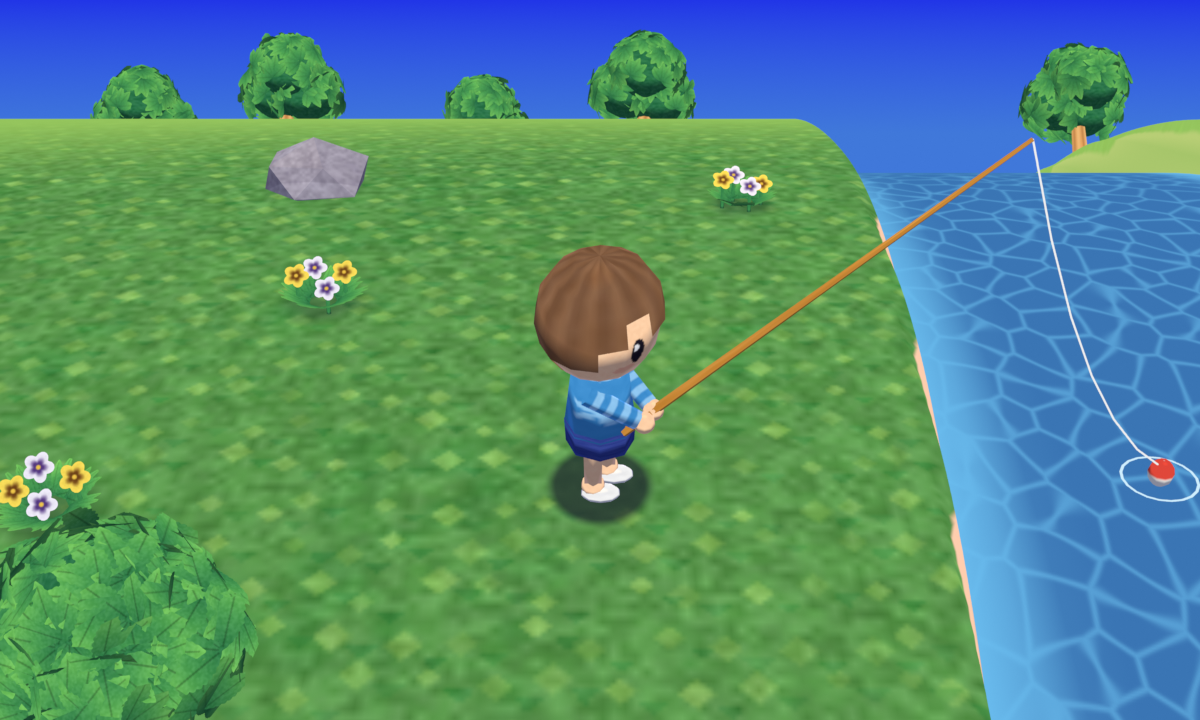
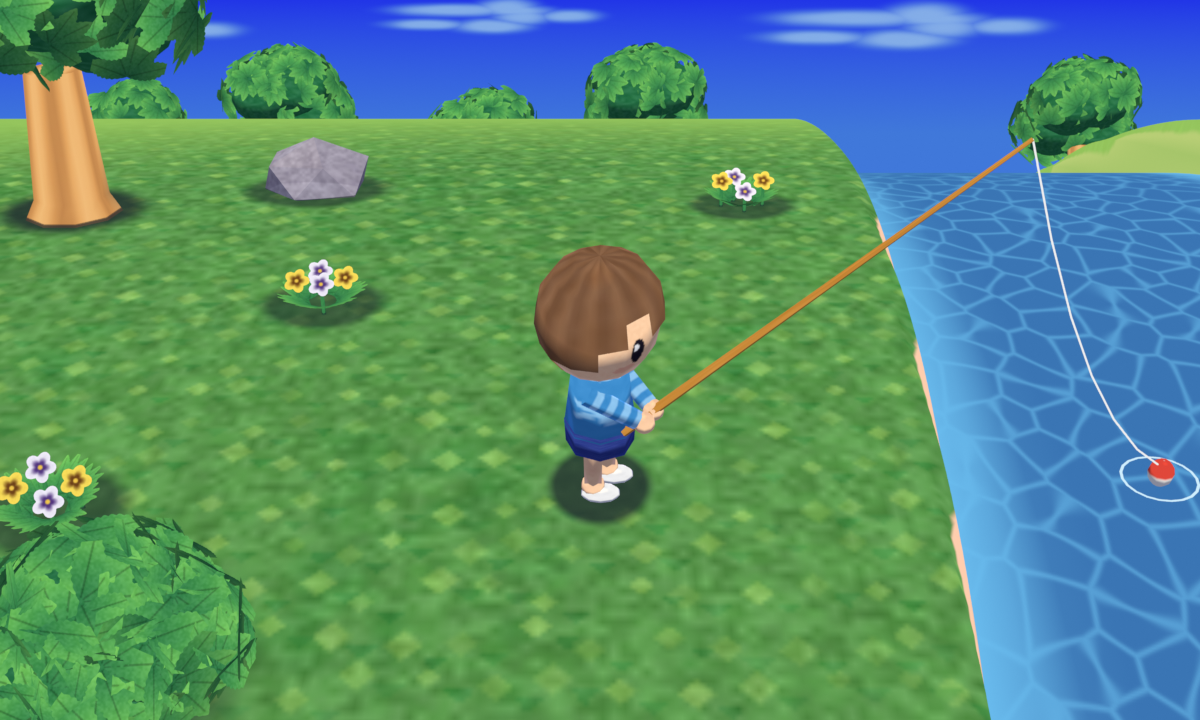
Town test scene: object shadows, clouds, NL tree proportions
Every tree, bush, flower clump and rock now has a soft shadow decal tuned to
the ratios measured on NL#946 (flower ground 0.68, canopy rim about 0.8);
trees get fat flared trunks and low wide canopies; thin cloud wisps from the
retail NL#939 colours sit in the sky strip. Blueprint sections 3, 4.1 and 15
record the measurements and settings.

Claude-Session: https://claude.ai/code/session_017uV2ZEHp81Umsc7vn6nowa

diff --git a/style_test_town/town_river_test.py b/style_test_town/town_river_test.py
@@ -59,6 +59,13 @@ BLOB_TINT_LIN = (0.018, 0.028, 0.032)           # E dark blue grey blend target 
 # Core alpha solved so G falls to about 0.46 of the retail grass #5A964C (lin G 0.305 to 0.060 with target 0.028):
 # a = (0.305 - 0.060) / (0.305 - 0.028) = 0.885. Blue is multiplied less, as measured (section 3).
 BLOB_CORE_ALPHA = 0.88
+# Object shadows, measured on NL#946 (E3 2010, the only frame with a near tree on open grass; M):
+# canopy shadow about 0.65 of the canopy width, centred under it, soft irregular edge, luminance 0.77 to 0.84 of
+# open grass near its rim and darker toward the trunk; ground under flower clumps 0.68; rock contact band dark.
+# Same blend target as the player blob. Core alpha for a displayed ratio k on #5A964C (lin G 0.305):
+# a = (0.305 - lin(150 k)) / (0.305 - 0.028): k 0.66 gives 0.65 (contact), k 0.75 gives 0.52 (canopy).
+CONTACT_ALPHA, CANOPY_ALPHA = 0.72, 0.68      # tuned on the render to hit the measured ratios
+CANOPY_SHADOW_FRAC = 0.65
 
 PAL = {
     "sky_top": "#2135E7", "sky_low": "#4078DA",                         # M retail NL#940, NL#939
@@ -521,7 +528,7 @@ def unlit(name, color):
     return m
 
 
-def blob_mat(name, core_alpha, tint_lin, inner=0.76):
+def blob_mat(name, core_alpha, tint_lin, inner=0.76, wobble=0.0):
     """Section 3: blend toward a dark blue grey (a multiply cannot raise blue on lime grass). Alpha profile:
     full core, falling to 0 at the outer radius, 50% at about 0.88 of it (w50 / extent = 0.38 / 0.43)."""
     m = bpy.data.materials.new(name)
@@ -536,9 +543,26 @@ def blob_mat(name, core_alpha, tint_lin, inner=0.76):
     ln = nt.nodes.new("ShaderNodeVectorMath")
     ln.operation = "LENGTH"
     link(nt, sub.outputs["Vector"], ln.inputs[0])
+    dist = ln.outputs["Value"]
+    if wobble:
+        # irregular, leafy outline (NL#946 canopy and flower shadows are soft but not round)
+        nz = nt.nodes.new("ShaderNodeTexNoise")
+        nz.inputs["Scale"].default_value = 4.0
+        nz.inputs["Detail"].default_value = 2.0
+        link(nt, tc.outputs["UV"], nz.inputs["Vector"])
+        ad = nt.nodes.new("ShaderNodeMath")
+        ad.operation = "MULTIPLY_ADD"
+        link(nt, nz.outputs["Fac"], ad.inputs[0])
+        ad.inputs[1].default_value = wobble
+        link(nt, dist, ad.inputs[2])
+        sb = nt.nodes.new("ShaderNodeMath")
+        sb.operation = "SUBTRACT"
+        link(nt, ad.outputs[0], sb.inputs[0])
+        sb.inputs[1].default_value = 0.5 * wobble
+        dist = sb.outputs[0]
     mr = nt.nodes.new("ShaderNodeMapRange")
     mr.interpolation_type = "SMOOTHSTEP"
-    link(nt, ln.outputs["Value"], mr.inputs["Value"])
+    link(nt, dist, mr.inputs["Value"])
     mr.inputs["From Min"].default_value, mr.inputs["From Max"].default_value = 0.5, 0.5 * inner
     mr.inputs["To Min"].default_value, mr.inputs["To Max"].default_value = 0.0, core_alpha
     tr = nt.nodes.new("ShaderNodeBsdfTransparent")
@@ -720,14 +744,15 @@ def leaf_cards(bm, uv, center, radius, n, size, rng, squash=0.9):
 def build_tree(col, M, x, y, height, rng):
     z0 = terrain_h(x, y)
     bm, uv = new_bm()
-    top = z0 + height * 0.55
-    bm_tube(bm, uv, [(x, y, z0 - 0.1), (x, y, z0 + 0.12), (x, y, top)], [0.17, 0.12, 0.08], 8, cap_end=True)
+    # NL trees (NL#946, 953, by eye): fat flared trunk, short, canopy starting low and wide
+    top = z0 + height * 0.42
+    bm_tube(bm, uv, [(x, y, z0 - 0.1), (x, y, z0 + 0.10), (x, y, top)], [0.30, 0.19, 0.14], 9, cap_end=True)
     mesh_object("TreeTrunk", bm, col, [M["bark"]])
     lobes = []
-    for k in range(3):
-        a = 2 * math.pi * k / 3 + rng.uniform(0, 1)
-        lobes.append(((x + 0.22 * math.cos(a), y + 0.22 * math.sin(a), top + 0.30 + 0.08 * k), 0.40))
-    lobes.append(((x, y, top + 0.66), 0.34))
+    for k in range(4):
+        a = 2 * math.pi * k / 4 + rng.uniform(0, 1)
+        lobes.append(((x + 0.30 * math.cos(a), y + 0.30 * math.sin(a), top + 0.32 + 0.06 * k), 0.46))
+    lobes.append(((x, y, top + 0.72), 0.40))
     bm, uv = new_bm()
     for c, r in lobes:
         bm_sphere(bm, uv, c, r * 0.82, scale=(1, 1, 0.9), segs=12, rings=7)        # dark core fills gaps
@@ -736,7 +761,10 @@ def build_tree(col, M, x, y, height, rng):
     for c, r in lobes:
         leaf_cards(bm, uv, c, r, 46, 0.36, rng)
     mesh_object("TreeLeaves", bm, col, [M["leaves"]])
-    blob(col, M["contact"], "TreeShadow", (x, y, z0 + 0.012), 0.55, 0.55)
+    half_w = 0.30 + 0.46                                # lobe offset plus lobe radius
+    rr = CANOPY_SHADOW_FRAC * half_w
+    blob(col, M["canopy"], "TreeShadow", (x, y, z0 + 0.012), rr, rr * 0.9)
+    blob(col, M["contact"], "TrunkContact", (x, y, z0 + 0.016), 0.40, 0.36)
 
 
 def build_flowers(col, M, x, y, rng):
@@ -776,7 +804,7 @@ def build_flowers(col, M, x, y, rng):
         for lp, q in zip(f.loops, ((0, 0), (1, 0), (1, 1), (0, 1))):
             lp[uv].uv = q
         mesh_object("FlowerHead", bm, col, [M["flower_a"] if k % 2 else M["flower_b"]])
-    blob(col, M["contact"], "FlowerShadow", (x, y, z0 + 0.01), 0.24, 0.24)
+    blob(col, M["contact"], "FlowerShadow", (x, y, z0 + 0.01), 0.32, 0.28)
 
 
 def build_rock(col, M, x, y, s):
@@ -792,7 +820,7 @@ def build_rock(col, M, x, y, s):
         for lp in f.loops:
             lp[uv].uv = ((lp.vert.co.x - x) * 2.0, (lp.vert.co.z - z0) * 2.0 + (lp.vert.co.y - y))
     mesh_object("Rock", bm, col, [M["rock"]], smooth=False)       # facets visible on props (section 2)
-    blob(col, M["contact"], "RockShadow", (x, y, z0 + 0.01), 1.3 * s, 1.1 * s)
+    blob(col, M["contact"], "RockShadow", (x, y - 0.02, z0 + 0.01), 1.75 * s, 1.45 * s)
 
 
 def build_bush(col, M, x, y, r, rng):
@@ -808,10 +836,13 @@ def build_bush(col, M, x, y, r, rng):
     for c, rr in lobes:
         leaf_cards(bm, uv, c, rr, 40, 0.30, rng)
     mesh_object("BushLeaves", bm, col, [M["leaves"]])
+    blob(col, M["canopy"], "BushShadow", (x, y, z0 + 0.012), 1.25 * r, 1.05 * r)
+    blob(col, M["contact"], "BushContact", (x, y, z0 + 0.016), 0.9 * r, 0.75 * r)
 
 
 # Horizon tree line beyond the bend tangent so trunk bases sink (section 9 rule 3); 5 trees (rule 5: 4 to 6).
 TREES = [(-3.6, 11.5, 2.0), (-1.4, 12.6, 2.1), (0.5, 11.4, 1.9), (5.6, 11.8, 2.0), (-5.6, 12.4, 2.1)]
+NEAR_TREES = [(-2.75, 2.5, 1.8)]   # mid ground tree: its canopy shadow sits on visible ground
 FLOWERS = [(-1.25, 1.35), (-2.0, -0.15), (0.75, 2.6)]   # rule 5: 2 to 5 clumps, 0.4 to 0.5 P wide
 
 PLAYER = Vector((0.0, 0.0, 0.0))
@@ -944,6 +975,69 @@ def build_sky():
     link(nt, bg.outputs[0], out.inputs["Surface"])
 
 
+def tex_cloud():
+    """Thin soft wisps (retail NL#939: low contrast streaks, core #5790D9, brightest #6FA2E1, against #3044DF)."""
+    w, h = 256, 64
+    yy, xx = np.mgrid[0:h, 0:w]
+    u, v = xx / (w - 1), yy / (h - 1)
+    a = np.zeros((h, w))
+    for k in range(7):
+        cx, cy = RNG.uniform(0.15, 0.85), RNG.uniform(0.35, 0.65)
+        sx, sy = RNG.uniform(0.12, 0.28), RNG.uniform(0.08, 0.16)
+        a = np.maximum(a, np.exp(-(((u - cx) / sx) ** 2 + ((v - cy) / sy) ** 2)))
+    a = a * (0.75 + 0.25 * fbm(w, h, 8, 2, RNG))
+    a = smoothstep(0.15, 0.85, a) * 0.9
+    col = ramp(a, ["#5790D9", "#6FA2E1", "#8FB8EA"])
+    return make_image("T_Cloud", col, a)
+
+
+def cloud_mat(img):
+    m = bpy.data.materials.new("M_Cloud")
+    nt = m.node_tree
+    nt.nodes.clear()
+    out = nt.nodes.new("ShaderNodeOutputMaterial")
+    t = nt.nodes.new("ShaderNodeTexImage")
+    t.image, t.interpolation, t.extension = img, "Linear", "CLIP"
+    em = nt.nodes.new("ShaderNodeEmission")
+    link(nt, t.outputs["Color"], em.inputs["Color"])
+    tr = nt.nodes.new("ShaderNodeBsdfTransparent")
+    mx = nt.nodes.new("ShaderNodeMixShader")
+    link(nt, t.outputs["Alpha"], mx.inputs[0])
+    link(nt, tr.outputs[0], mx.inputs[1])
+    link(nt, em.outputs[0], mx.inputs[2])
+    link(nt, mx.outputs[0], out.inputs["Surface"])
+    m.surface_render_method = "BLENDED"
+    return m
+
+
+# screen x, screen y (from the bottom), width as a share of the frame: inside the thin sky strip, between crowns
+CLOUDS = [(0.08, 0.955, 0.30), (0.40, 0.975, 0.26), (0.74, 0.96, 0.34)]
+
+
+def build_clouds(col, M, cam, dist=80.0):
+    """Cloud cards along camera rays far beyond the bent ground, so they only show over the sky (not bent)."""
+    sc = bpy.context.scene
+    bpy.context.view_layer.update()
+    mw = cam.matrix_world
+    tr, br, bl, tl = [mw @ v for v in cam.data.view_frame(scene=sc)]
+    org = mw.translation
+    for i, (sx, sy, wf) in enumerate(CLOUDS):
+        d = (bl.lerp(br, sx).lerp(tl.lerp(tr, sx), sy) - org).normalized()
+        c = org + d * dist
+        width = (tr - tl).length * dist / (tl - org).length * wf
+        right = (tr - tl).normalized()
+        up = right.cross(d).normalized()
+        if up.z < 0:
+            up = -up
+        hw, hh = width / 2, width * 0.25 / 2
+        bm, uv = new_bm()
+        vs = [bm.verts.new(c + right * a * hw + up * b * hh) for a, b in ((-1, -1), (1, -1), (1, 1), (-1, 1))]
+        f = bm.faces.new(vs)
+        for lp, q in zip(f.loops, ((0, 0), (1, 0), (1, 1), (0, 1))):
+            lp[uv].uv = q
+        mesh_object(f"Cloud{i}", bm, col, [M["cloud"]], smooth=False)
+
+
 def build_camera(col):
     cd = bpy.data.cameras.new("Cam")
     cd.lens, cd.sensor_height, cd.sensor_fit = FOCAL, SENSOR_H, "VERTICAL"
@@ -964,7 +1058,7 @@ def build(native=False):
     rng = np.random.default_rng(3)
     T = {"grass": tex_grass(), "wall": tex_wall(), "caustic": tex_caustic(), "foliage": tex_foliage(),
          "bark": tex_bark(), "face": tex_face(), "hair": tex_hair(), "shirt": tex_shirt(), "bobber": tex_bobber(),
-         "rock": tex_rock(), "leaves": tex_leaves(),
+         "rock": tex_rock(), "leaves": tex_leaves(), "cloud": tex_cloud(),
          "flower_a": tex_flower("#F4F0FF", "#5B3C8C"), "flower_b": tex_flower("#FFE15A", "#7A4A1E"),
          "skin": tex_flat("T_Skin", [PAL["skin_shade"], PAL["skin"], PAL["skin"]], 0.02, 2),
          "shorts": tex_flat("T_Shorts", ["#26347A", PAL["shorts"], "#3B4C9E"]),
@@ -993,7 +1087,9 @@ def build(native=False):
         "bobber": mat("M_Bobber", image=T["bobber"]),
         "foam": unlit("M_Foam", "#CFEFFF"),
         "blob": blob_mat("M_Blob", BLOB_CORE_ALPHA, BLOB_TINT_LIN),
-        "contact": blob_mat("M_Contact", contact_alpha * 1.6, BLOB_TINT_LIN, inner=0.35),
+        "contact": blob_mat("M_Contact", CONTACT_ALPHA, BLOB_TINT_LIN, inner=0.70, wobble=0.10),
+        "canopy": blob_mat("M_CanopyShadow", CANOPY_ALPHA, BLOB_TINT_LIN, inner=0.55, wobble=0.16),
+        "cloud": cloud_mat(T["cloud"]),
     }
     world = bpy.data.collections.new("World")
     sc.collection.children.link(world)
@@ -1001,7 +1097,7 @@ def build(native=False):
     build_terrain(world, M)
     build_water(world, M)
     # horizon tree line (section 9 rule 3) and a few nearer trees on both sides of the river (4 to 6 trees)
-    for x, y, hgt in TREES:
+    for x, y, hgt in TREES + NEAR_TREES:
         build_tree(world, M, x, y, hgt, rng)
     for x, y in FLOWERS:
         build_flowers(world, M, x, y, rng)
@@ -1018,6 +1114,7 @@ def build(native=False):
 
     rx_, ry_ = NATIVE if native else RES
     sc.render.resolution_x, sc.render.resolution_y, sc.render.resolution_percentage = rx_, ry_, 100
+    build_clouds(world, M, cam)
     sc.render.engine = "BLENDER_EEVEE"
     ee = sc.eevee
     if native:
@@ -1059,7 +1156,7 @@ def check(info):
     b = world_to_camera_view(sc, cam, bend_point(PLAYER + Vector((0, 0, 1.0))))
     print(f"player share {b.y - a.y:.3f} (target {PLAYER_SHARE}), feet row {1 - a.y:.3f} (target {FEET_ROW})")
     for x, y, hgt in TREES:
-        top = bend_point(Vector((x, y, terrain_h(x, y) + hgt * 0.55 + 0.98)))
+        top = bend_point(Vector((x, y, terrain_h(x, y) + hgt * 0.42 + 1.12)))
         base = bend_point(Vector((x, y, terrain_h(x, y))))
         vt, vb = world_to_camera_view(sc, cam, top), world_to_camera_view(sc, cam, base)
         print(f"  tree ({x}, {y}): crown top row {1 - vt.y:.3f}, base row {1 - vb.y:.3f}, column {vt.x:.3f}")
@@ -1081,7 +1178,7 @@ def qa(png, info):
     nwhite = float(((v > 0.92) & (s < 0.12)).mean())
     print(f"QA envelope: neon {neon:.3%}, near black {nblack:.3%}, near white {nwhite:.3%} (each under 2%)")
     # horizon: per column, last sky row from the top (sky = blue dominant and dark red channel)
-    sky = (px[..., 2] > 0.6) & (px[..., 0] < 0.45) & (px[..., 2] > px[..., 1] + 0.1)
+    sky = (px[..., 2] > 0.6) & (px[..., 2] > px[..., 0] + 0.2) & (px[..., 2] > px[..., 1] + 0.1)   # sky or cloud
     rows = []
     for x in range(int(w * 0.40), int(w * 0.60)):
         col = sky[:, x]
@@ -1099,6 +1196,16 @@ def qa(png, info):
         x, y = int(p.x * w), int((1 - p.y) * h)
         return px[max(0, y - 1):y + 2, max(0, x - 1):x + 2].reshape(-1, 3).mean(0)
     cf, cg = sample(pf), sample(pg)
+    # object shadows (section 3): flower clump ground and near tree canopy shadow vs open grass beside them
+    L = lambda c: 0.2126 * c[0] + 0.7152 * c[1] + 0.0722 * c[2]
+    for name, at_, ref, target in (
+            ("flower clump ground", (FLOWERS[0][0] + 0.12, FLOWERS[0][1] - 0.14),
+             (FLOWERS[0][0] + 0.12, FLOWERS[0][1] - 0.75), "0.68"),
+            ("tree canopy shadow rim", (NEAR_TREES[0][0] + 0.05, NEAR_TREES[0][1] - 0.37),
+             (NEAR_TREES[0][0] + 1.25, NEAR_TREES[0][1] - 0.37), "0.77 to 0.84 near the rim, darker inside")):
+        ps = world_to_camera_view(sc, cam, bend_point(Vector((at_[0], at_[1], 0.0))))
+        pr = world_to_camera_view(sc, cam, bend_point(Vector((ref[0], ref[1], 0.0))))
+        print(f"QA {name}: luminance ratio {L(sample(ps)) / max(L(sample(pr)), 1e-6):.2f} (NL#946 {target})")
     ratio = cf / np.maximum(cg, 1e-6)
     print(f"QA blob: shadow sRGB {tuple(int(c * 255) for c in cf)} vs grass {tuple(int(c * 255) for c in cg)}; "
           f"R, G ratios {ratio[0]:.2f}, {ratio[1]:.2f} (target about 0.45), B ratio {ratio[2]:.2f} "

diff --git a/style_blueprint/BLUEPRINT.md b/style_blueprint/BLUEPRINT.md
@@ -119,7 +119,7 @@ the feet with no offset (A, vA, H). CF#882 balloon shadow straight down (by eye)
 | width at 50% / full extent, in P | 0.38 P / 0.43 P (A 0.30/0.38 REVISED) | 50% width about 0.40 P (40 to 46 px vs about 110 px players); 10% extent 0.6 to 0.7 P |
 | profile | quick drop to about 0.7 over 3 px, then a gentle cone to the core; 10 to 90% edge about 10 px (about 0.09 P) | soft plateau plus long ramps; 10 to 90% edge about 22 px (0.2 P); not a 6 px cone |
 | on screen aspect | 1.3 to 1.4 : 1 (A's 2:1 REVISED) | similar (by eye) |
-| trees and props | NL#946 soft dark patch under trunk base, ratio about 0.7, irregular; NL#951 rock contact band (by eye) | cannot confirm |
+| trees and props | EVERY grounded object gets one (section 15): canopy shadow about 0.65 of the canopy width, centred under the canopy (no sun offset), soft irregular edge, luminance 0.77 to 0.84 of open grass near the rim and darker toward the trunk (NL#946); ground under flower clumps 0.68 (NL#946); rock contact band dark, extending past the rock (NL#946, 951). Same dark blue grey blend as the player blob (R and G fall more than B). M (one E3 2010 frame for the numbers, by eye on NL#951, 953) | cannot confirm |
 
 Confidence: NL H (four retail frames); CF M (press plus one in game frame by eye).
 
@@ -150,7 +150,7 @@ Audit [Au] (`audit/nl_blob2.py`: horizontal profile at the sole row, normalised 
 | CF city | pale horizon #7B94BC | | vC (CF#877). M |
 | NL E3 2010 press | bright cyan #45C5FF (top #3BBBFF) | #50D0FF to #58D4F8 | vC, A, vA (NL#946, 947, 949, 951, 953); [Au] rows 0 to 40 (body plus band) #48CCF8 to #4DCDFF: CONFIRMED. H for that build |
 | NL E3 2011 press | saturated blue to violet #213EED (NL#963), #3356F1 (957), #6378EB (956), #6D4FFA (955), #7942FE (964, possibly evening) | | vC. H for that build |
-| NL retail / near retail | deep blue #2135E7 (h 234, S 0.86, V 0.91) on retail NL#940; #242CE6 on NL#939 (Nintendo Direct 2012) | lower sky #4078DA to #6894D9 near a cloud (NL#939) | [S] `synth/sky_retail.py`, vC; [Au] NL#940 #2139E8, NL#939 #2323EF (strict blue mask): CONFIRMED within 9 levels. M (two small frames). Use the deep blue for an NL retail look; cyan only for an "early NL" look |
+| NL retail / near retail | deep blue #2135E7 (h 234, S 0.86, V 0.91) on retail NL#940; #242CE6 on NL#939 (Nintendo Direct 2012); clouds (NL#939): thin soft low contrast wisps, core #5790D9, brightest #6FA2E1, against #3044DF, not white puffs (white puffy clouds are key art only). L (one 200x140 frame) | lower sky #4078DA to #6894D9 near a cloud (NL#939) | [S] `synth/sky_retail.py`, vC; [Au] NL#940 #2139E8, NL#939 #2323EF (strict blue mask): CONFIRMED within 9 levels. M (two small frames). Use the deep blue for an NL retail look; cyan only for an "early NL" look |
 | NL snow night, evening | snow #4E56B1 under night light (NL#961); evening sky #7942FE (NL#964) | | vA. M |
 
 ### 4.2 Ground and grass
@@ -675,3 +675,15 @@ New evidence and corrections found while building `style_test_town/town_river_te
   mean saturation 0.555; mean value 0.654. Flat colour materials and smooth sphere foliage scored 0.37 grain; painted
   textures on every material, leaf clump cards and printed grass raised it to 1.63 with saturation 0.561 and value
   0.669 inside the capture range. Every material needs a painted texture; no flat fills.
+* Object shadows (second test pass): without them shrubs, flowers, trees and rocks read as pasted on. Measured on
+  NL#946 against open grass #12804E: under the canopy #1C6840 to #185F3E (luminance 0.77 to 0.84; R rises because the
+  grass R is near zero, G and B fall to 0.74 to 0.82), under a flower clump #185436 (0.68). Canopy shadow width about
+  0.65 of the canopy width, centred, irregular soft edge (by eye). Implementation that reproduced the targets on the
+  render (`town_river_test.py --render` QA): decal discs with the player blob blend colour, core alpha 0.72 (contact:
+  flowers 0.32 P radius, rock 1.75 x its radius, trunk base 0.40 P) and 0.68 (canopy), noise wobble 0.10 to 0.16 on
+  the radius; measured on the render: flower ground 0.68, canopy rim 0.85.
+* Trees (by eye on NL#946, 953): fat flared trunk (base radius about 0.30 P, top 0.14 P), short (canopy starts at
+  about 0.42 of the tree height), wide canopy of leaf clump cards; near trees have their crown cut by the top edge,
+  horizon trees have their base hidden by the bend.
+* Clouds: retail NL#939 shows thin low contrast wisps (see 4.1). Placed as unbent cards along camera rays beyond the
+  bent ground so they only show inside the thin sky strip.
